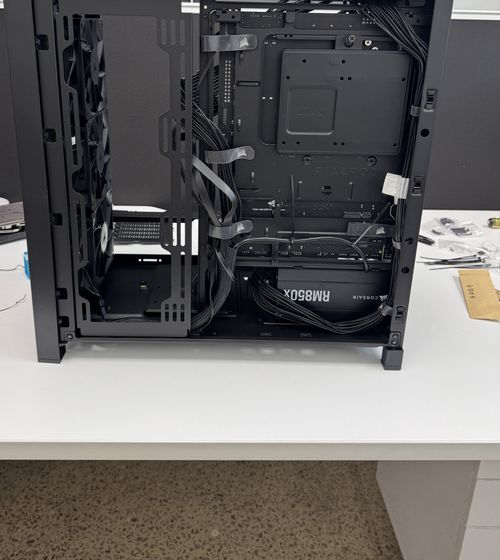
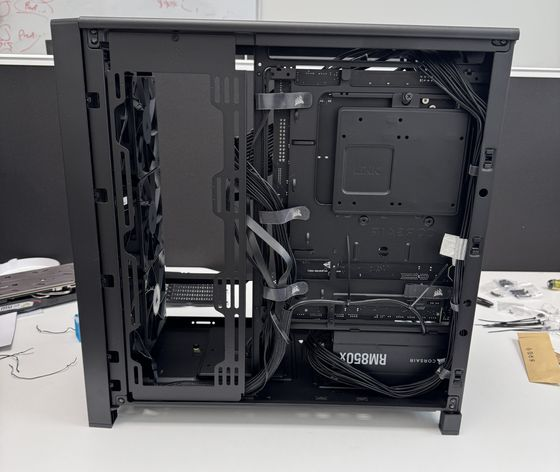
Replace ds-3 with Daniel's own crop

diff --git a/index.html b/index.html
@@ -766,7 +766,7 @@
               <ul class="gallery" data-gallery="ds-build">
                 <li><a href="assets/img/builds/ds-1.jpg"><img src="assets/img/builds/ds-1-thumb.jpg" alt="Applying thermal paste to the Intel Core i7-14700 seated in the socket" width="420" height="560" loading="lazy" decoding="async" /></a></li>
                 <li><a href="assets/img/builds/ds-2.jpg"><img src="assets/img/builds/ds-2-thumb.jpg" alt="Motherboard bench-assembled with the Noctua NH-D15 G2 cooler and memory installed" width="420" height="560" loading="lazy" decoding="async" /></a></li>
-                <li><a href="assets/img/builds/ds-3.jpg"><img src="assets/img/builds/ds-3-thumb.jpg" alt="Rear of the case during cable management — power leads routed behind the motherboard tray" width="500" height="560" loading="lazy" decoding="async" /></a></li>
+                <li><a href="assets/img/builds/ds-3.jpg"><img src="assets/img/builds/ds-3-thumb.jpg" alt="Rear of the case during cable management — power leads routed behind the motherboard tray" width="560" height="472" loading="lazy" decoding="async" /></a></li>
                 <li><a href="assets/img/builds/ds-4.jpg"><img src="assets/img/builds/ds-4-thumb.jpg" alt="Near-complete build with the graphics card seated and airflow fans fitted" width="560" height="420" loading="lazy" decoding="async" /></a></li>
                 <li><a href="assets/img/builds/ds-5.jpg"><img src="assets/img/builds/ds-5-thumb.jpg" alt="Finished machine running a Cinebench CPU benchmark to validate the build" width="560" height="420" loading="lazy" decoding="async" /></a></li>
               </ul>
